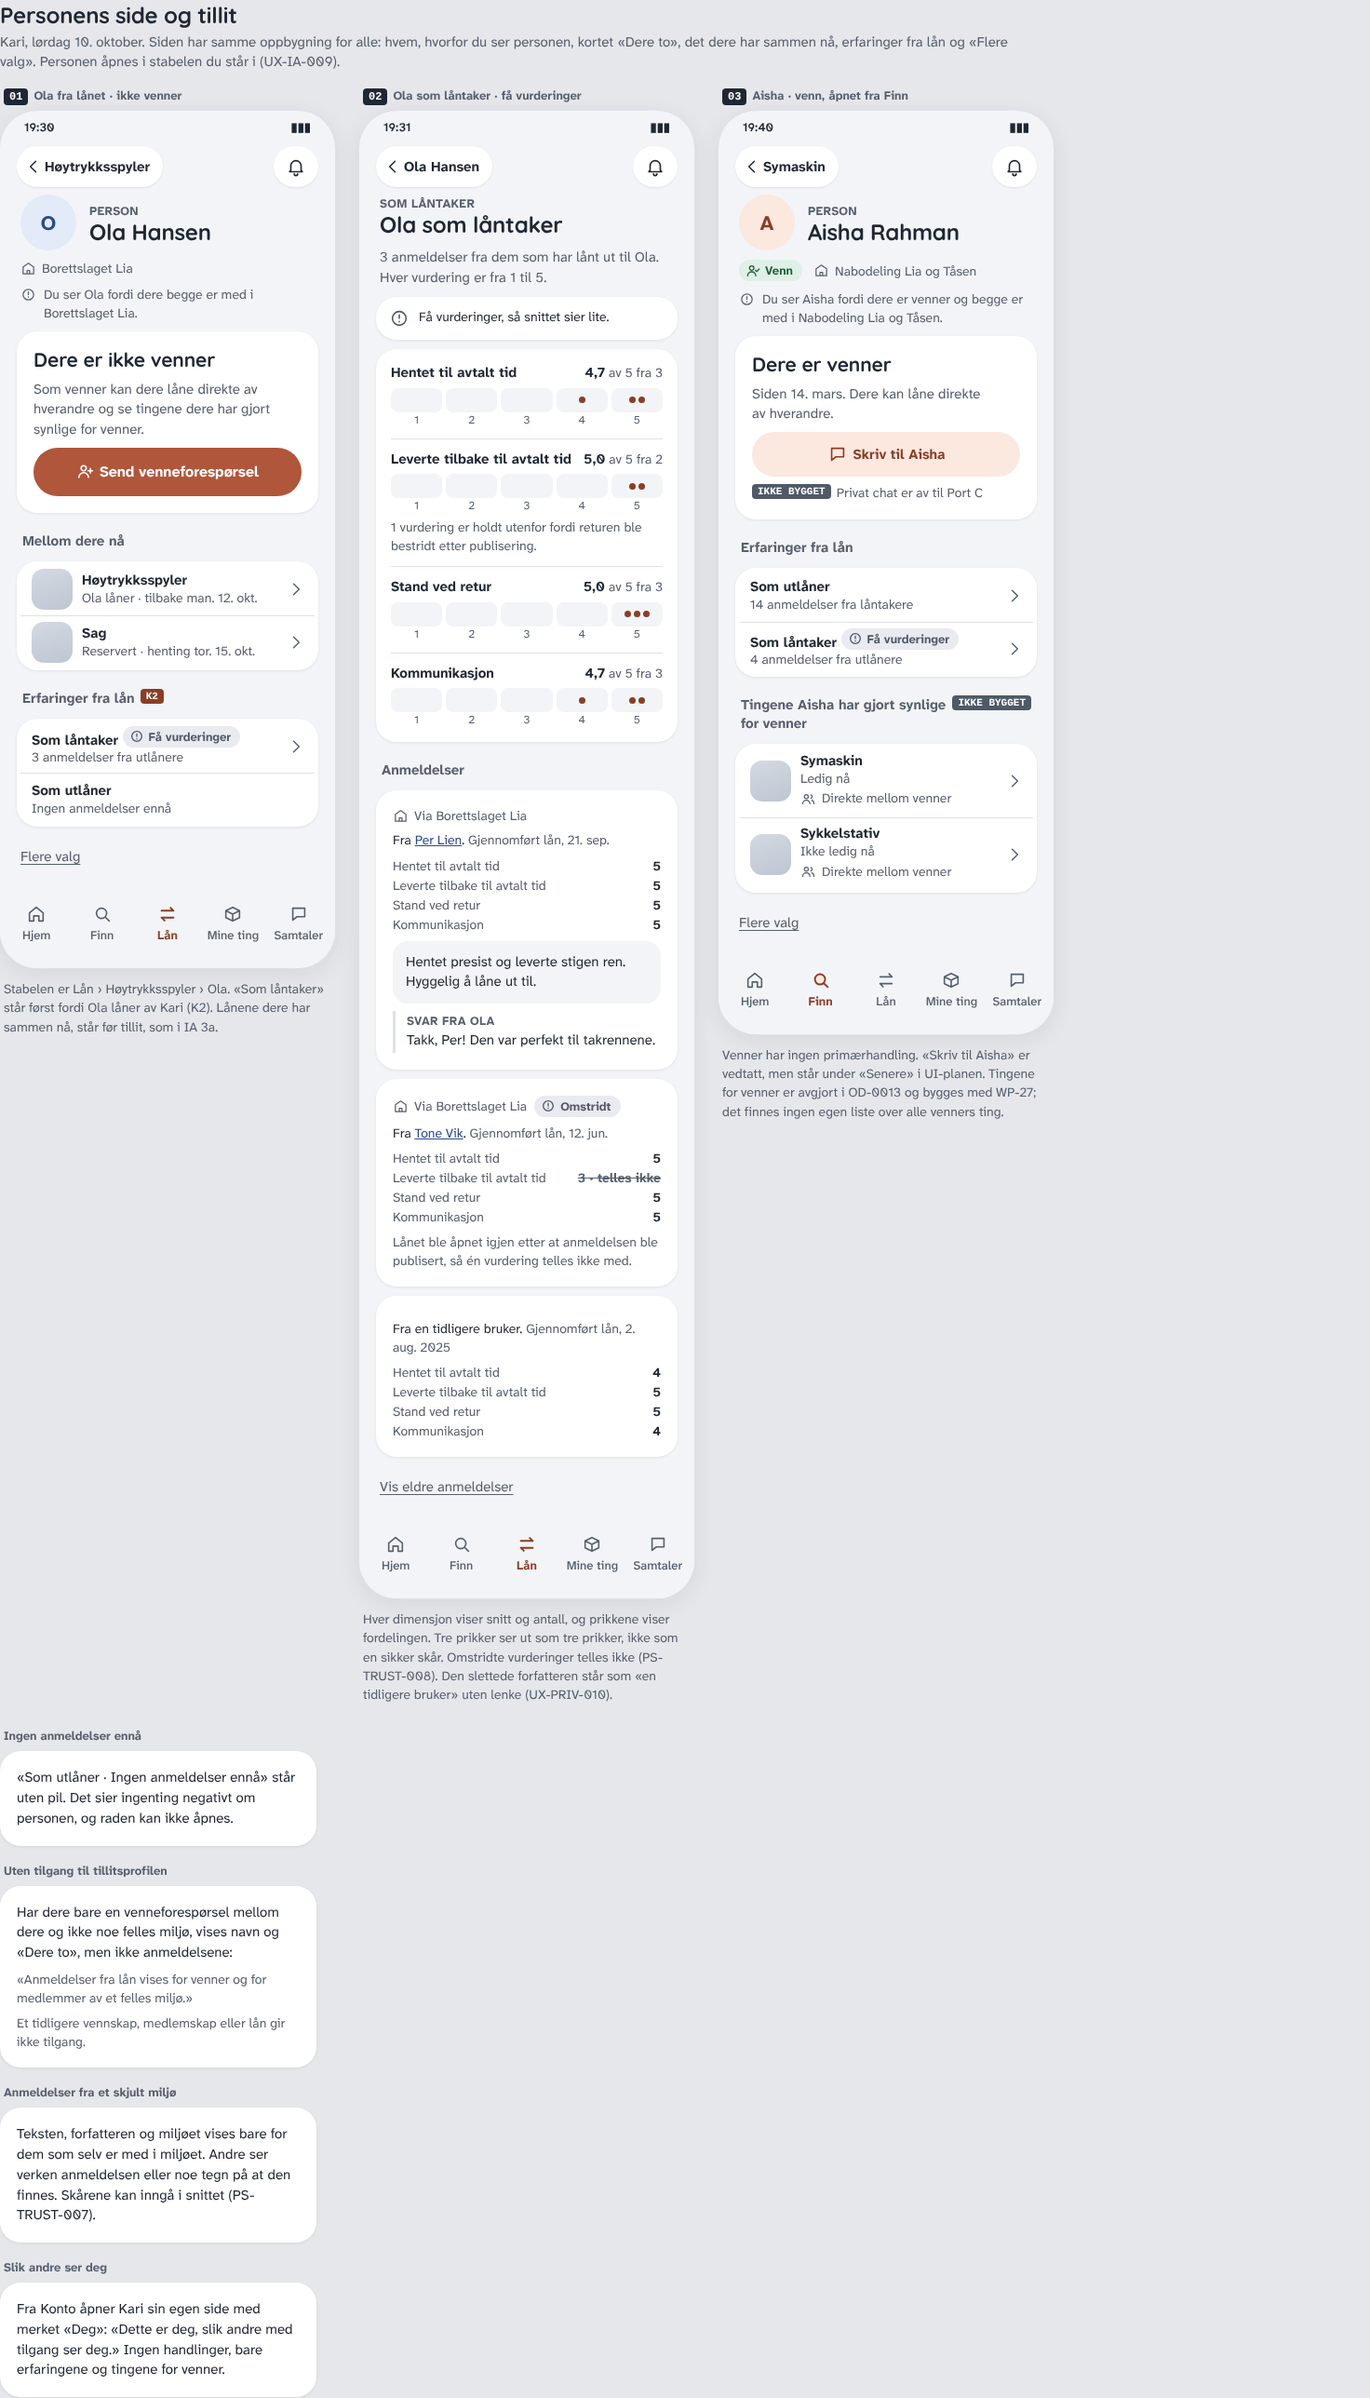
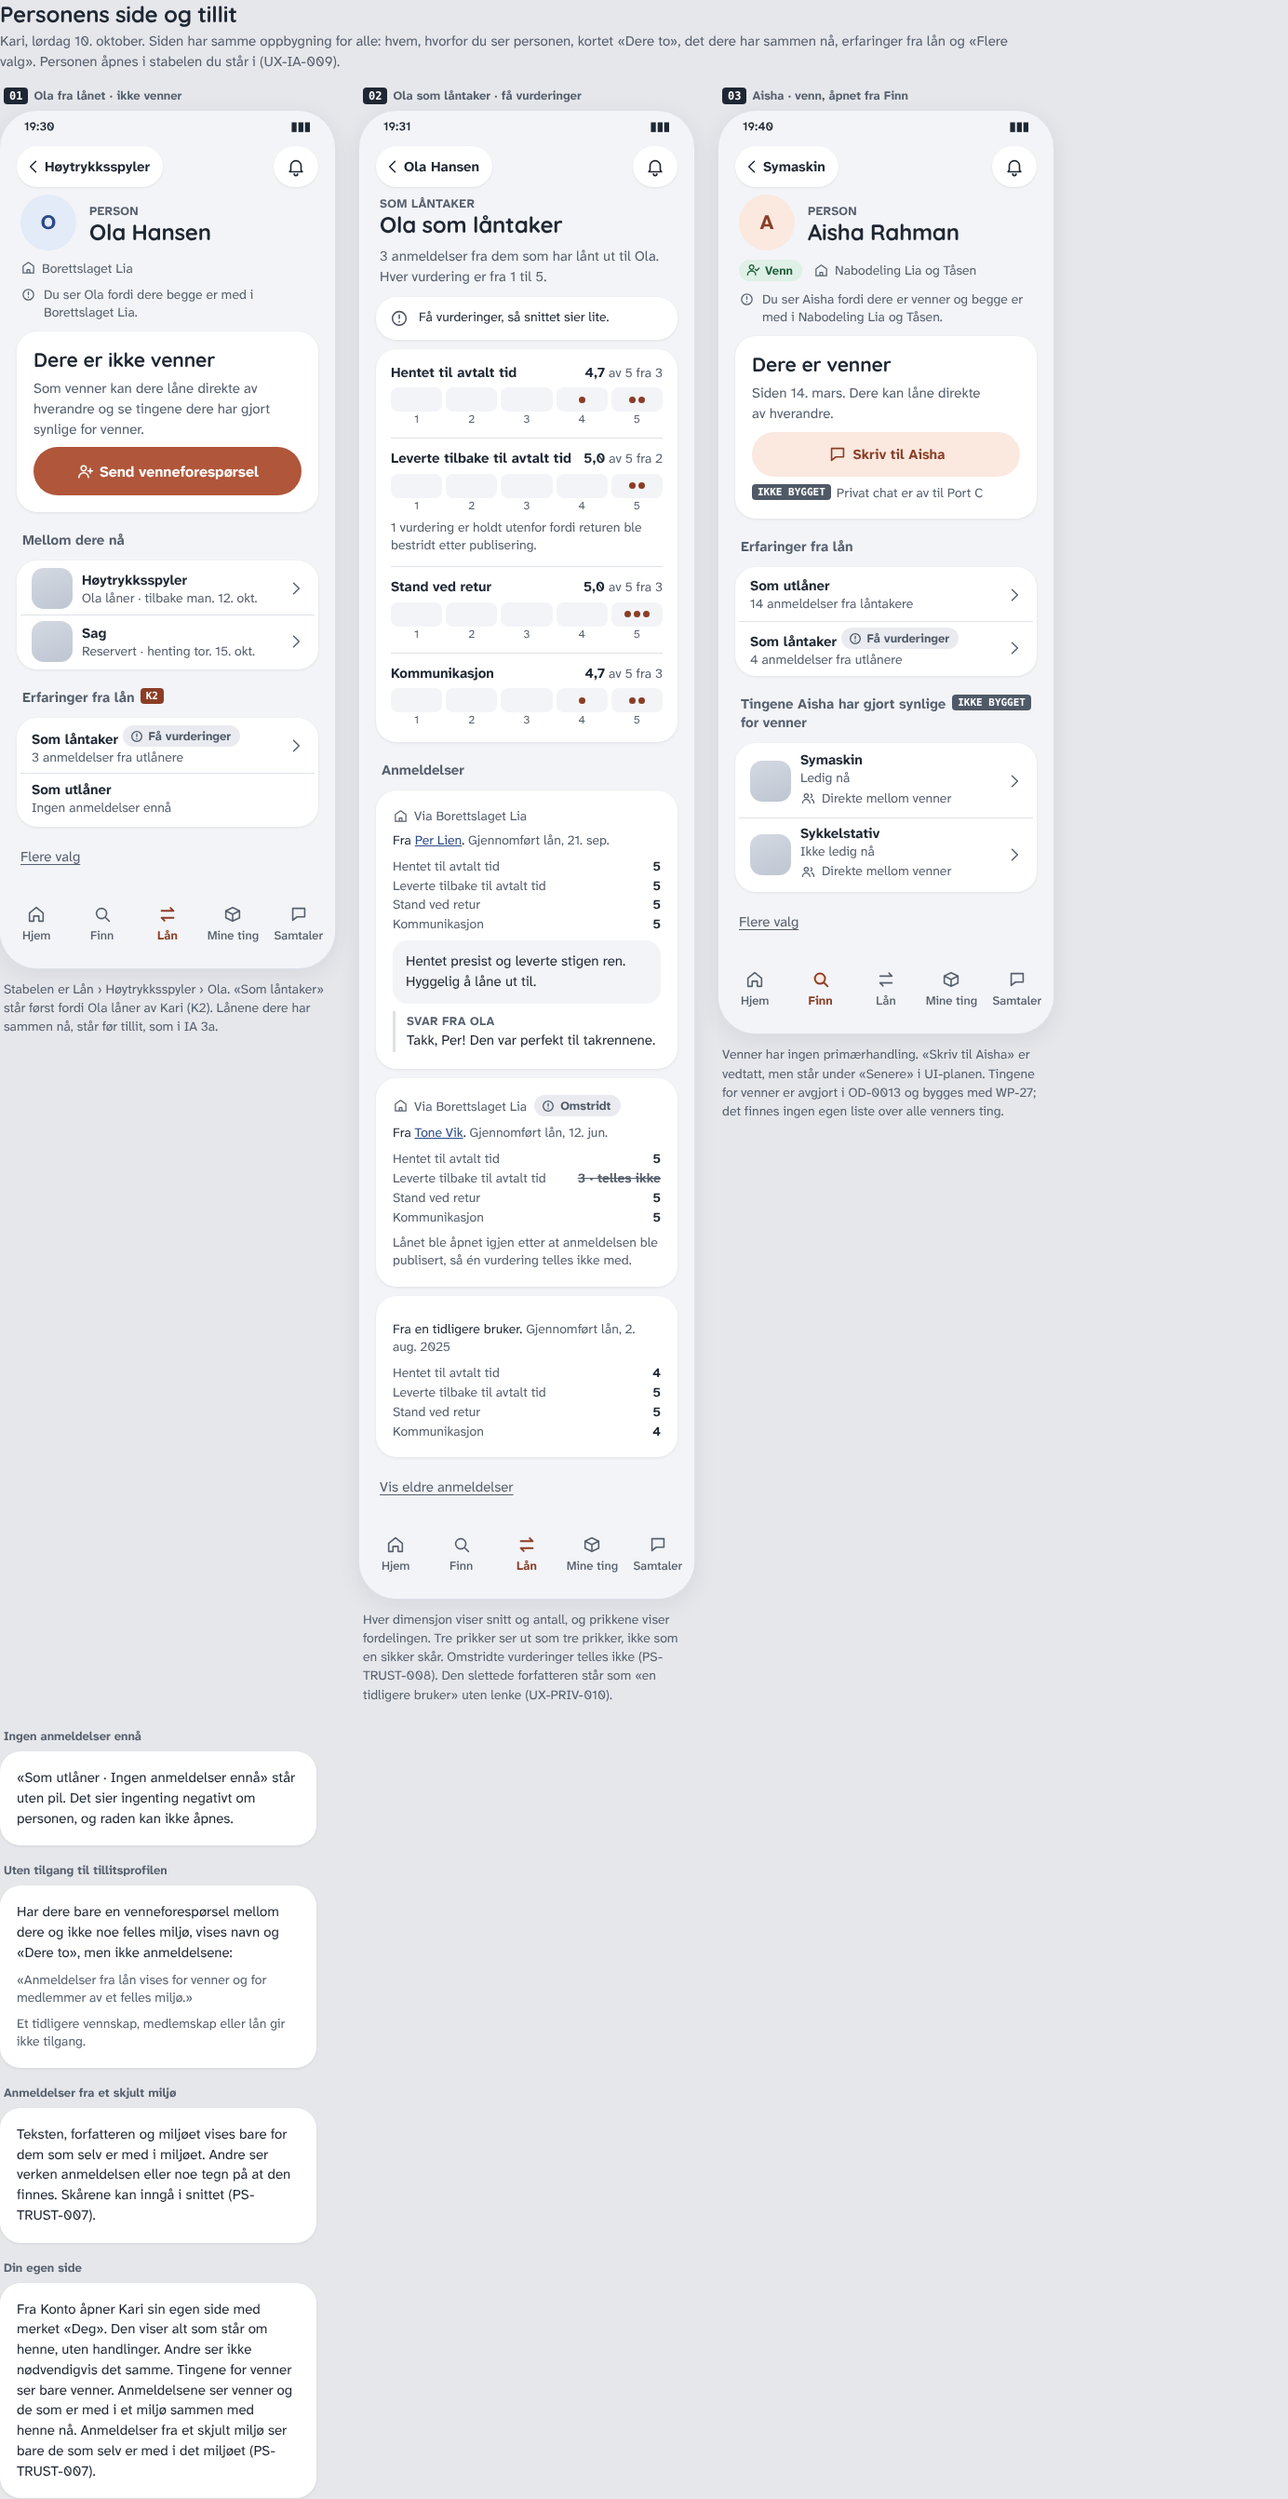
Prototype: rett egen side, blokkering, rapport og ukjent utfall
- Konto lenker til «Se din egen side», og forklaringen sier at det andre
  ser, avhenger av vennskap, felles miljø og skjult miljø (PS-TRUST-007).
- Blokkering stanser nye private meldinger; meldingene slettes ikke, og
  samtalen kan brukes igjen når blokkeringen oppheves.
- «Rapporter» åpner en forklaring i stedet for å gjøre ingenting, og er
  merket som utenfor prototypen.
- Etter «Uten nett» velger «Simulert utfall» om handlingen ble
  gjennomført eller ikke nådde fram (UX-INT-006).
- Skjermbildene som endret seg, er tatt på nytt.

Claude-Session: https://claude.ai/code/session_01Wn9USkRLj7QBELqJjgCtcD

Changed region(s): [[0.0, 0.0, 0.8078, 1.0], [0.7767, 0.0311, 0.8078, 0.0932]]

diff --git a/design/Lånbort - Personer, venner og tillit v1.html b/design/Lånbort - Personer, venner og tillit v1.html
@@ -201,7 +201,7 @@ button:disabled{cursor:default}
 
 <section style="display:flex;flex-direction:column;gap:16px" aria-labelledby="h-live">
 <div class="gh"><span class="hq" style="font-size:24px" id="h-live">Prøv relasjonen: Kari og Ola samtidig</span><span class="s">Kari ser Ola fra lånet av høytrykksspyleren, og Ola ser Kari fra det samme lånet. Begge er med i Borettslaget Lia. Trykk i hvilken som helst av telefonene. Den andre oppdateres med en gang, og kolonnen til høyre viser hva hver av dem faktisk får beskjed om.</span></div>
-<div class="ctrl"><label class="tg"><input type="checkbox" id="opt-off"><span class="sw" aria-hidden="true"></span>Uten nett</label><button class="bn sm" id="reset" type="button">Start på nytt</button><span class="s2">Med «Uten nett» på får neste handling ukjent utfall, og begge telefonene venter. Slå av igjen for å se at appen sjekker før du kan prøve på nytt (UX-INT-006).</span></div>
+<div class="ctrl"><label class="tg"><input type="checkbox" id="opt-off"><span class="sw" aria-hidden="true"></span>Uten nett</label><button class="bn sm" id="reset" type="button">Start på nytt</button><label class="s2" style="display:inline-flex;align-items:center;gap:8px;min-height:44px">Simulert utfall<select id="opt-outcome" style="font:inherit;min-height:36px;border-radius:8px;padding:0 6px"><option value="done">handlingen ble gjennomført</option><option value="lost">handlingen nådde ikke fram</option></select></label><span class="s2">Med «Uten nett» på får neste handling ukjent utfall, og begge telefonene venter. Slå av igjen for å se at appen sjekker før du kan prøve på nytt (UX-INT-006). Hva sjekken finner, velger du med «Simulert utfall».</span></div>
 <div class="live" id="live"></div>
 </section>
 
@@ -379,8 +379,8 @@ const blockSheet = (who, o = {}) => {
   const f = PEOPLE[who].first, n = PEOPLE[who].name, live = o.live ? ` data-who="${o.live}"` : '';
   return sheet({ over:n, title:`Blokkere ${n}?`, aria:`Blokkere ${n}`, body:
     groupLabel('DETTE STANSER') + [['block', RED, 'Dere kan ikke sende hverandre venneforespørsler, meldinger eller låneforespørsler.'], ['eyeoff', RED, `Dere ser ikke hverandre i ${o.env || 'miljøene'}, i Finn eller på tingene.`],
-      ...(o.friends ? [['pmin', RED, 'Vennskapet avsluttes.']] : []), ...(o.chat ? [['sam', RED, `Den private samtalen med ${f} stenges.`]] : [])].map(r => `<div class="stl">${ic(r[0], `color:${r[1]}`)}<span>${r[2]}</span></div>`).join('') +
-    groupLabel('DETTE BESTÅR') + [['ting', BLUE, o.loan || 'Lån dere allerede har avtalt.'], ['shield', BLUE, 'Saker dere har sammen, og anmeldelser dere har rett til å skrive.']].map(r => `<div class="stl">${ic(r[0], `color:${r[1]}`)}<span>${r[2]}</span></div>`).join('') +
+      ...(o.friends ? [['pmin', RED, 'Vennskapet avsluttes.']] : []), ...(o.chat ? [['sam', RED, `Nye meldinger i den private samtalen med ${f}.`]] : [])].map(r => `<div class="stl">${ic(r[0], `color:${r[1]}`)}<span>${r[2]}</span></div>`).join('') +
+    groupLabel('DETTE BESTÅR') + [['ting', BLUE, o.loan || 'Lån dere allerede har avtalt.'], ['shield', BLUE, 'Saker dere har sammen, og anmeldelser dere har rett til å skrive.'], ...(o.chat ? [['sam', BLUE, 'Meldingene dere allerede har skrevet, slettes ikke. Samtalen kan brukes igjen hvis blokkeringen oppheves.']] : [])].map(r => `<div class="stl">${ic(r[0], `color:${r[1]}`)}<span>${r[2]}</span></div>`).join('') +
     groupLabel(`DETTE FÅR ${f.toUpperCase()} VITE`) + `<div class="stl">${ic('info', `color:${GREY}`)}<span>Ingen beskjed om hvem som blokkerte. ${f} kan likevel merke at kontakten er borte.</span></div>`,
     actions:`<button class="bdf" type="button"${o.live ? ` data-act="doblock"${live}` : ''}${o.focus ? ' style="outline:3px solid #2B4A8A;outline-offset:2px"' : ''}>${ic('block')}Blokker ${n}</button><button class="bn" type="button"${o.live ? ` data-act="close"${live}` : ''}>Avbryt</button><span class="s2" style="text-align:center">Du trenger ikke oppgi noen grunn.</span>` });
 };
@@ -408,8 +408,15 @@ const moreSheet = (who, o = {}) => {
   return sheet({ over:PEOPLE[who].name, title:'Flere valg', body:`<div class="cd ol" style="padding:2px 4px;gap:0">${
     (o.friends ? mr({ lead:ic('pmin'), t:`Fjern ${f} som venn`, end:'', act:a('remove') }) : '') +
     mr({ lead:ic('block'), t:`Blokker ${f}`, end:'', act:a('block'), danger:true }) +
-    mr({ lead:ic('flag'), t:`Rapporter ${f}`, s:'Si fra til miljøet eller Lånbort', end:o.live ? '' : NB() })}</div>`,
+    mr({ lead:ic('flag'), t:`Rapporter ${f}`, s:'Si fra til miljøet eller Lånbort', end:NB('IKKE MED HER'), act:a('report') })}</div>`,
     actions:`<button class="bn" type="button"${a('close')}>Lukk</button>` });
+};
+const reportSheet = (who, o = {}) => {
+  const live = o.live ? ` data-act="close" data-who="${o.live}"` : '';
+  return sheet({ over:PEOPLE[who].name, title:`Rapporter ${PEOPLE[who].first}`, rows:[
+    ['info', GREY, 'Rapportskjemaet hører til saker (WP-88) og er ikke med i denne prototypen.'],
+    ['info', GREY, 'I appen åpner denne raden skjemaet der du sier fra til miljøet eller Lånbort.']],
+    actions:`<button class="bn" type="button"${live}>Lukk</button>` });
 };
 const notFound = (backTo, area) => `${backbar('Hjem')}<div class="scr" style="gap:12px;padding-top:8px">
 <div class="cd" style="gap:10px"><span class="hq now">Vi finner ikke denne siden</span><span class="s">Den kan være fjernet, eller den er ikke tilgjengelig for deg lenger.</span><span class="btn2">Tilbake til ${backTo}</span></div></div>${nav(area)}`;
@@ -446,7 +453,8 @@ function liveScreen(v) {
   const overlay = sh === 'more' ? moreSheet(o, { live:v, friends:rel === 'friends' })
     : sh === 'remove' ? removeSheet(o, { live:v, env:'Borettslaget Lia' })
     : sh === 'block' ? blockSheet(o, { live:v, env:'Borettslaget Lia', friends:rel === 'friends', loan:'Lånet av høytrykksspyleren fortsetter. Det praktiske om returen avtaler dere i en egen kanal for lånet.' })
-    : sh === 'unblock' ? unblockSheet(o, { live:v }) : '';
+    : sh === 'unblock' ? unblockSheet(o, { live:v })
+    : sh === 'report' ? reportSheet(o, { live:v }) : '';
   return personPage({ who:o, rel, state:busy ? 'unknown' : rel, live:v, busy:!!S.busy, flash:S.flash[v], back:'Høytrykksspyler', area:'lan',
     n:S.log[v].filter(x => !x.read && !x.gone).length, env:shared ? 'Borettslaget Lia' : '',
     why:shared ? `Du ser ${PEOPLE[o].first} fordi dere begge er med i Borettslaget Lia${rel === 'friends' ? ' og er venner' : ''}.` : '',
@@ -488,7 +496,7 @@ function act(a, v) {
   if (S.busy) return; /* ukjent utfall: ingen ny handling før appen har sjekket (UX-INT-006) */
   S.focus = v;
   S.flash[v] = ''; S.flash[other(v)] = '';
-  if (a === 'more' || a === 'remove' || a === 'block' || a === 'unblock') { S.sheet[v] = a; return renderLive(); }
+  if (['more', 'remove', 'block', 'unblock', 'report'].includes(a)) { S.sheet[v] = a; return renderLive(); }
   if (a === 'close') { S.sheet[v] = null; return renderLive(); }
   S.sheet[v] = null; S.clock += 1;
   if (document.getElementById('opt-off').checked) { S.busy = { v, a }; return renderLive(); }
@@ -496,10 +504,16 @@ function act(a, v) {
 }
 document.getElementById('live').addEventListener('click', e => { const b = e.target.closest('[data-act]'); if (b && !b.disabled) act(b.dataset.act, b.dataset.who); });
 document.getElementById('opt-off').addEventListener('change', e => {
-  if (!e.target.checked && S.busy) { const { v, a } = S.busy; S.busy = null; S.clock += 1; S.flash[v] = ACTIONS[a](v) || 'Blokkeringen er registrert.'; S.flash[v] = `Vi sjekket: ${S.flash[v].charAt(0).toLowerCase()}${S.flash[v].slice(1)}`; S.focus = v; }
+  /* Sjekken etter ukjent utfall: «Simulert utfall» bestemmer om handlingen nådde serveren. */
+  if (!e.target.checked && S.busy) {
+    const { v, a } = S.busy, done = document.getElementById('opt-outcome').value === 'done';
+    S.busy = null; S.clock += 1; S.focus = v;
+    const r = done ? ACTIONS[a](v) || 'Blokkeringen er registrert.' : 'Det gikk ikke gjennom. Ingenting er endret, og du kan prøve på nytt.';
+    S.flash[v] = `Vi sjekket: ${r.charAt(0).toLowerCase()}${r.slice(1)}`;
+  }
   renderLive();
 });
-document.getElementById('reset').addEventListener('click', () => { S = LIVE0(); document.getElementById('opt-off').checked = false; renderLive(); });
+document.getElementById('reset').addEventListener('click', () => { S = LIVE0(); document.getElementById('opt-off').checked = false; document.getElementById('opt-outcome').value = 'done'; renderLive(); });
 document.getElementById('opt-mark').addEventListener('change', e => document.getElementById('L').classList.toggle('nomark', !e.target.checked));
 
 /* ---------- Statiske skjermer ---------- */
@@ -546,7 +560,7 @@ const S_SECTIONS = [
 ${note('Ingen anmeldelser ennå', '<span class="s" style="color:#1E2733">«Som utlåner · Ingen anmeldelser ennå» står uten pil. Det sier ingenting negativt om personen, og raden kan ikke åpnes.</span>')}
 ${note('Uten tilgang til tillitsprofilen', `<span class="s" style="color:#1E2733">Har dere bare en venneforespørsel mellom dere og ikke noe felles miljø, vises navn og «Dere to», men ikke anmeldelsene:</span><span class="s2">«Anmeldelser fra lån vises for venner og for medlemmer av et felles miljø.»</span><span class="s2">Et tidligere vennskap, medlemskap eller lån gir ikke tilgang.</span>`)}
 ${note('Anmeldelser fra et skjult miljø', '<span class="s" style="color:#1E2733">Teksten, forfatteren og miljøet vises bare for dem som selv er med i miljøet. Andre ser verken anmeldelsen eller noe tegn på at den finnes. Skårene kan inngå i snittet (PS-TRUST-007).</span>')}
-${note('Slik andre ser deg', '<span class="s" style="color:#1E2733">Fra Konto åpner Kari sin egen side med merket «Deg»: «Dette er deg, slik andre med tilgang ser deg.» Ingen handlinger, bare erfaringene og tingene for venner.</span>')}
+${note('Din egen side', '<span class="s" style="color:#1E2733">Fra Konto åpner Kari sin egen side med merket «Deg». Den viser alt som står om henne, uten handlinger. Andre ser ikke nødvendigvis det samme. Tingene for venner ser bare venner. Anmeldelsene ser venner og de som er med i et miljø sammen med henne nå. Anmeldelser fra et skjult miljø ser bare de som selv er med i det miljøet (PS-TRUST-007).</span>')}
 </div>`
     ] },
 
@@ -574,7 +588,7 @@ ${note('Uten nett', `<span class="pill p-wt">${ic('offline')}Vet ikke ennå</spa
   { h:'Fjerne en venn', s:'Kari fjerner Aisha. Valget ligger under «Flere valg» (UX-INT-009) og har en konsekvensvisning fordi det påvirker en annen (UX-INT-007).',
     items:[
       phone({ num:'08', label:'Flere valg', time:'19:44', body:personPage({ who:'aisha', rel:'friends', back:'Symaskin', area:'finn', env:'Nabodeling Lia og Tåsen', first:'lender', overlay:moreSheet('aisha', { friends:true }) }),
-        cap:'Fjern venn, blokker og rapporter står alltid samme sted. Blokker er signalrød fordi den stanser all kontakt. Rapporter åpner flyten som designes med saker (WP-88).' }),
+        cap:'Fjern venn, blokker og rapporter står alltid samme sted. Blokker er signalrød fordi den stanser all kontakt. Rapporter hører til saker (WP-88) og er ikke med i denne prototypen.' }),
       phone({ num:'09', label:'Fjerne Aisha som venn?', time:'19:44', body:personPage({ who:'aisha', rel:'friends', back:'Symaskin', area:'finn', first:'lender', overlay:removeSheet('aisha', { env:'Nabodeling Lia og Tåsen' }) }),
         cap:'Rødt er det som forsvinner, blått er det som består, grått er hva den andre får vite. Knappen er ikke signalrød, fordi ingenting slettes og dere kan bli venner igjen.' }),
       phone({ num:'10', label:'Fjernet', time:'19:45', body:personPage({ who:'aisha', rel:'none', back:'Symaskin', area:'finn', env:'Nabodeling Lia og Tåsen', why:'Du ser Aisha fordi dere begge er med i Nabodeling Lia og Tåsen.', first:'lender', flash:'Du fjernet Aisha som venn.' }),
@@ -624,7 +638,7 @@ ${note('Slettet konto', `<div class="row" style="gap:10px"><span class="av g xs"
   { h:'Konto: venner, forespørsler og blokkerte', s:'Konto åpnes fra profilbildet øverst i alle områder (UX-IA-003). Her samles relasjonene, slik de allerede finnes i appen, med lenker til personens side.',
     items:[
       phone({ num:'18', label:'Konto · åpnet fra Hjem', time:'19:50', body:`<div class="hdr"><span class="hi hq">Konto</span>${FS('K1')}<span class="xb" aria-label="Lukk Konto">${ic('x')}</span></div><div class="scr" style="gap:10px">
-<div class="cd" style="gap:10px"><div class="row">${av('kari', 'big')}<div class="f1"><div class="t">Kari Nordmann</div><div class="s2">Profilbildet ser alle som kan se deg</div></div></div><span class="q" style="min-height:36px">Se siden din slik andre ser den</span></div>
+<div class="cd" style="gap:10px"><div class="row">${av('kari', 'big')}<div class="f1"><div class="t">Kari Nordmann</div><div class="s2">Profilbildet ser alle som kan se deg</div></div></div><span class="q" style="min-height:36px">Se din egen side</span></div>
 ${sec('Folk')}<div class="cd" style="padding:2px 4px;gap:0">${mr({ lead:`<span class="tic">${ic('ppl')}</span>`, t:'Venner', s:'12 venner', end:`<span class="pill p-me">${ic('target')}1 venter</span>${chev}` })}${mr({ lead:`<span class="tic n">${ic('block')}</span>`, t:'Blokkerte', s:'1 person' })}</div>
 ${sec('Annet')}<div class="cd" style="padding:2px 4px;gap:0">${mr({ lead:`<span class="tic n">${ic('shield')}</span>`, t:'Saker' })}${mr({ lead:`<span class="tic n">${ic('bell')}</span>`, t:'Varslingsvalg' })}${mr({ lead:`<span class="tic n">${ic('info')}</span>`, t:'Kontoen din', s:'Aktiv' })}${mr({ lead:`<span class="tic n">${ic('out')}</span>`, t:'Logg ut', end:'' })}</div>
 </div>${nav('hjem')}`,
